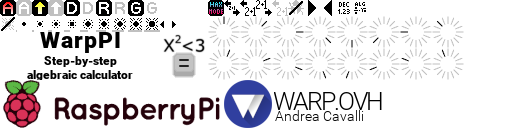
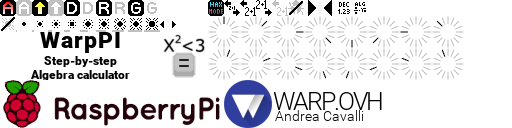
Fixed a grammar error.

Changed region(s): [[0.0, 0.5312, 0.2812, 1.0]]

diff --git a/README.md b/README.md
@@ -1,5 +1,5 @@
 # WarpPI Calculator
-Step-by-step algebraic calculator for Raspberry PI.
+Step-by-step algebra calculator for Raspberry PI.
 
 **This project is experimental and strictly related to my calculator, designed to run on an embedded hardware.
 It works but many fundamental features aren't complete.**<br>
